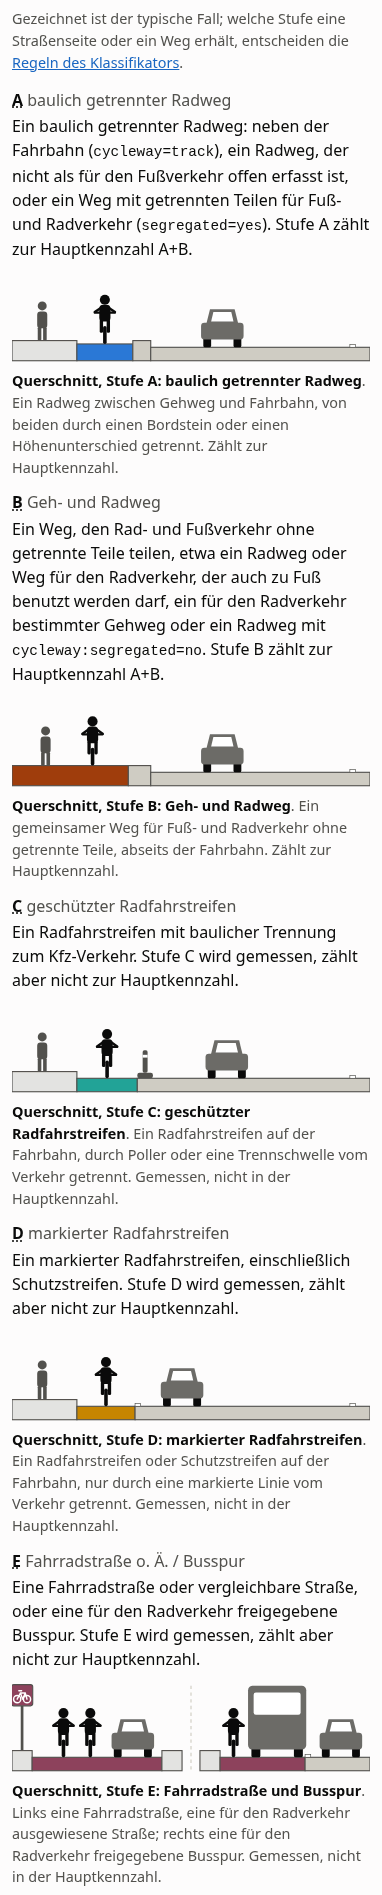
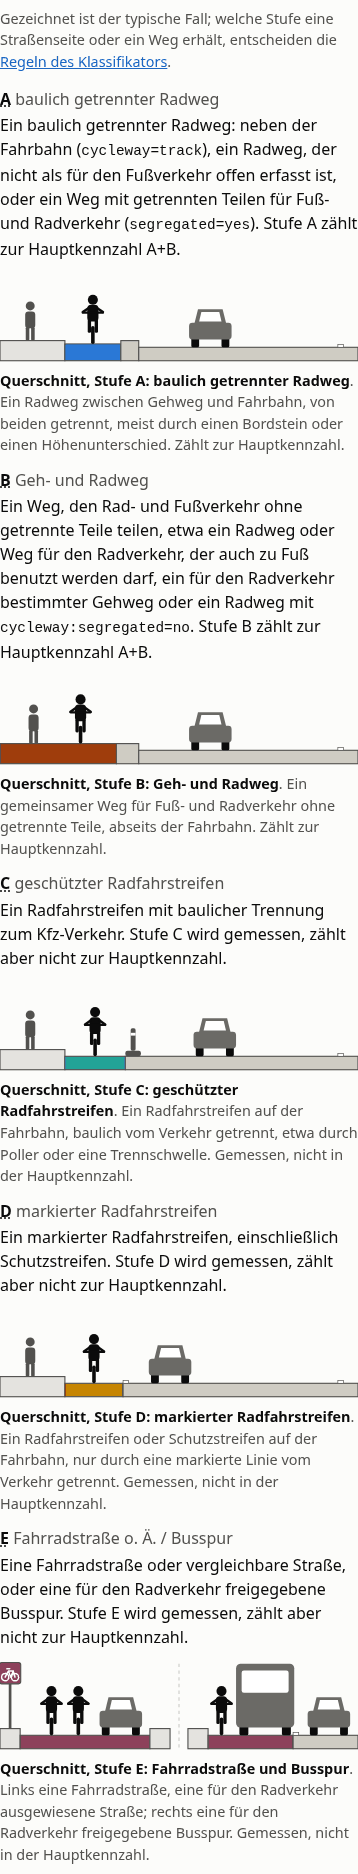
docs(m17): small wordings from the review: llms.txt years, A/C captions, German QECIO class
llms.txt: "(one per year since 2018, plus the current state)", checked against
config/history.yaml. Captions: A "typically" / "meist", C "such as" / "etwa"; glossary
screenshots re-rendered. Methodology (de): "alle Radfahr- und Schutzstreifen", regenerated.
m17-text.md records the decisions and marks the rest approved 2026-11-02.

Assisted-by: Claude:claude-opus-5-5

Changed region(s): [[0.0, 0.0, 1.0, 1.0]]

diff --git a/tests/test_m17_crawl.py b/tests/test_m17_crawl.py
@@ -332,3 +332,14 @@ def test_sitemap_prefixes_hold_without_a_fresh_registration():
     assert xml.startswith('<?xml version="1.0" encoding="UTF-8"?>\n<urlset ')
     assert f'xmlns="{crawl.SITEMAP_NS}"' in xml and f'xmlns:xhtml="{crawl.XHTML_NS}"' in xml
     assert "<xhtml:link " in xml and xml.endswith("</urlset>\n")
+
+
+def test_llms_txt_years_are_the_history_years():
+    """llms.txt says the CSV holds one snapshot per year since the history's first year, plus
+    the current state: every "since <year>" in it is the first year of `config/history.yaml`,
+    the yearly series every city's history runs cover."""
+    first = int(yaml.safe_load((REPO / "config" / "history.yaml").read_text())["years"][:4])
+    text = (REPO / "content" / "llms.md").read_text(encoding="utf-8")
+    assert "(one per year since" in text and "plus the current state)" in text
+    years = [int(y) for y in re.findall(r"\bsince (\d{4})\b", text)]
+    assert len(years) >= 2 and set(years) == {first}, years

diff --git a/tests/test_m17_methodology_qecio_example.py b/tests/test_m17_methodology_qecio_example.py
@@ -76,3 +76,15 @@ def test_no_segregated_path_tier_claim_contradicts_the_classifier(lang):
         assert claimed == actual, (
             f"{lang}: segregated path claimed {claimed}, {version} says {actual}"
         )
+
+
+def test_german_class_names_every_lane_kind_the_english_does():
+    """The English "all cycle lanes" covers painted advisory lanes too (tier D includes them),
+    and German "Radfahrstreifen" alone does not: the German sentence on QECIO's one lane class names
+    Schutzstreifen as well (the user's correction of 2026-11-02)."""
+    en = _paragraph(_text("en"), "en")
+    de = _paragraph(_text("de"), "de")
+    assert "QECIO counts all cycle lanes as one class" in en
+    one_class = re.search(r"zählt QECIO alle ([^.,]*?) als eine Klasse", de)
+    assert one_class, de
+    assert "Schutzstreifen" in one_class.group(1) and "Radfahr" in one_class.group(1)

diff --git a/tests/test_m17_tier_diagrams.py b/tests/test_m17_tier_diagrams.py
@@ -169,6 +169,18 @@ def test_every_tier_has_its_caption_and_name_keys():
         assert i18n.DYNAMIC_FAMILIES[prefix]() >= classifier_tiers(CONFIG)
 
 
+@pytest.mark.parametrize(
+    ("tier", "hedge"),
+    [("A", {"en": "typically by", "de": "meist durch"}), ("C", {"en": "such as", "de": "etwa"})],
+)
+def test_caption_names_separations_as_examples(tier, hedge):
+    """A and C are drawn with one kind of separation each, but the tier has more (the user's
+    call of 2026-11-02): their captions name the drawn kinds as typical or as examples."""
+    for lang in ("en", "de"):
+        caption = i18n.t(lang, f"tier.caption.{tier}")
+        assert re.search(rf"\b{hedge[lang]}\b", caption), (lang, caption)
+
+
 def test_one_viewbox_for_every_diagram():
     module = _module("en", _tier_set())
     boxes = {

diff --git a/docs/review/m17-text.md b/docs/review/m17-text.md
@@ -3,6 +3,11 @@
 Every new reader-facing sentence of M17, en and de, collected for the user's review (plan Task 5
 step 6, spec §4.8 settled 6). Nothing here ships before that review.
 
+**Approved 2026-11-02**, except the texts marked "draft for review" below: the user decided
+the open points on 2026-11-02 and approved everything else in this file. The drafts are new
+text written from those decisions (meta descriptions, the ECF entry, the llms.txt and caption
+wordings, the home lead) and still need the user's go.
+
 ## Open points, in one list
 
 Decide each one, or say "as is". Section references are below.
@@ -10,8 +15,8 @@ Decide each one, or say "as is". Section references are below.
 1. **Long deks:** decided 2026-11-02: the deks stay, and the 14 cities with a dek over 160
    characters get their own meta description, en and de (draft: "Own descriptions" under "Meta
    descriptions and OpenGraph").
-2. **Zenodo licence:** the record says `odbl-1.0`, but the boundary-derived figures carry GISCO's
-   non-commercial condition (see "Dataset bundle"). Keep it, or change the licence field?
+2. **Zenodo licence:** decided 2026-11-02: the record stays `odbl-1.0`, with the GISCO
+   non-commercial condition in the description and the README, as built.
 3. **ECF:** decided 2026-11-02: registered as a term, en and de, with a glossary entry and the
    first-use mark; the upper-case shape test now requires it (draft: "#### ECF" below).
 4. **Tier letters:** decided 2026-11-02: a tier letter is marked on its first use per scope
@@ -21,19 +26,20 @@ Decide each one, or say "as is". Section references are below.
    export); its 24 `<details>` are Cite boxes, whose text is skipped (R13d). The most tier marks
    on any page are 9 (Amsterdam and Utrecht story: the always-visible text plus the phone-only
    blocks, each its own scope). A test now holds one mark per term per scope on every page.
-5. **llms.txt:** "(a year or the current one)" is unverified wording. It links `/data/all.csv`, although
-   robots.txt disallows `/data/` (kept as a download).
-6. **Diagram captions:** A "kerb or change in level" could get "typically"; C names 2 of many
-   separation kinds and could get "such as" (Task 14).
-7. **"Radwegtypen":** too narrow for D and E (Task 16).
+5. **llms.txt:** decided 2026-11-02: "(a year or the current one)" becomes "(one per year since
+   2018, plus the current state)" (draft, see "llms.txt" below); the CSV link stays. "Since
+   2018" is true: `config/history.yaml` has `years: "2018-2026"`, and the export's `all.csv`
+   holds, for each of the 42 city × boundary pairs, the labels 2018 to 2026 plus `current`.
+6. **Diagram captions:** decided 2026-11-02: A gets "typically" ("meist"), C introduces its
+   separation kinds with "such as" ("etwa"); draft in "Tier diagrams", screenshots re-rendered.
+7. **"Radwegtypen":** decided 2026-11-02: stays.
 8. **Home lead:** it repeats the definition box below it. "Here a reader can see…" reads clumsily,
    the home sentence is long, and "apart from the road" is loose for side tracks (Task 15).
-9. **Phone city scroll:** the "over time" section shows the tier mix over time, not the headline chart,
-   which already sits above it (Task 16).
-10. **Methodology correction (German):** "Radfahrstreifen" is narrower than the English "all cycle lanes",
-    because it excludes Schutzstreifen (Task 2c).
-11. **Methodology correction:** the stale tier-B sentence is replaced (live page; see the section
-    below).
+9. **Phone city scroll:** decided 2026-11-02: the "over time" section stays the tier mix over
+   time (Ruling T16a confirmed).
+10. **Methodology correction (German):** decided 2026-11-02: "QECIO zählt alle Radfahr- und
+    Schutzstreifen als eine Klasse" (applied, `docs/methodology.de.md` regenerated).
+11. **Methodology correction:** approved 2026-11-02.
 
 ## Terms registry and glossary (Task 13)
 
@@ -261,7 +267,8 @@ the road with a car.
 
 ### Screenshots
 
-These show the methodology glossary's tier entries from the local app on the real database.
+These show the methodology glossary's tier entries from the local app on the real database
+(re-rendered 2026-11-02 with the A and C captions above; axe 0 violations in all 8).
 
 | | light | dark |
 |---|---|---|
@@ -279,14 +286,19 @@ These show the methodology glossary's tier entries from the local app on the rea
 | `tier.diagram_name.C` | Cross-section, tier C: protected lane | Querschnitt, Stufe C: geschützter Radfahrstreifen |
 | `tier.diagram_name.D` | Cross-section, tier D: painted lane | Querschnitt, Stufe D: markierter Radfahrstreifen |
 | `tier.diagram_name.E` | Cross-section, tier E: cycle street and bus lane | Querschnitt, Stufe E: Fahrradstraße und Busspur |
-| `tier.caption.A` | A cycle track between the footway and the road, set apart from both by a kerb or a change in level. | Ein Radweg zwischen Gehweg und Fahrbahn, von beiden durch einen Bordstein oder einen Höhenunterschied getrennt. |
+| `tier.caption.A` (draft 2026-11-02) | A cycle track between the footway and the road, set apart from both, typically by a kerb or a change in level. | Ein Radweg zwischen Gehweg und Fahrbahn, von beiden getrennt, meist durch einen Bordstein oder einen Höhenunterschied. |
 | `tier.caption.B` | One path for walking and cycling, without separate parts, apart from the road. | Ein gemeinsamer Weg für Fuß- und Radverkehr ohne getrennte Teile, abseits der Fahrbahn. |
-| `tier.caption.C` | A cycle lane on the road, with bollards or a kerb separator between it and the traffic. | Ein Radfahrstreifen auf der Fahrbahn, durch Poller oder eine Trennschwelle vom Verkehr getrennt. |
+| `tier.caption.C` (draft 2026-11-02) | A cycle lane on the road, with a physical separation such as bollards or a kerb separator between it and the traffic. | Ein Radfahrstreifen auf der Fahrbahn, baulich vom Verkehr getrennt, etwa durch Poller oder eine Trennschwelle. |
 | `tier.caption.D` | A cycle lane or advisory lane on the road, with only a painted line between it and the traffic. | Ein Radfahrstreifen oder Schutzstreifen auf der Fahrbahn, nur durch eine markierte Linie vom Verkehr getrennt. |
 | `tier.caption.E` | Left, a cycle street, a street signed for cycling; right, a bus lane open to cyclists. | Links eine Fahrradstraße, eine für den Radverkehr ausgewiesene Straße; rechts eine für den Radverkehr freigegebene Busspur. |
 | `tier.diagram_counts` | Counts in the headline. | Zählt zur Hauptkennzahl. |
 | `tier.diagram_measured` | Measured, not in the headline. | Gemessen, nicht in der Hauptkennzahl. |
 | `tier.diagram_rules` | A typical case is drawn; the [classifier rules] decide which tier each street side or path gets. | Gezeichnet ist der typische Fall; welche Stufe eine Straßenseite oder ein Weg erhält, entscheiden die [Regeln des Klassifikators]. |
+
+Before 2026-11-02 the two drafts read: A "…set apart from both by a kerb or a change in level."
+/ "…von beiden durch einen Bordstein oder einen Höhenunterschied getrennt."; C "A cycle lane on
+the road, with bollards or a kerb separator between it and the traffic." / "Ein Radfahrstreifen
+auf der Fahrbahn, durch Poller oder eine Trennschwelle vom Verkehr getrennt."
 
 The name is the drawing's accessible name and the caption's bold start. The link in
 `tier.diagram_rules` goes to the methodology's "Classification rules" section. The German texts
@@ -758,9 +770,13 @@ Old (de):
 
 New (de):
 
-> So zählt QECIO alle Radfahrstreifen als eine Klasse, während hier ein Radfahrstreifen mit
-> baulicher Trennung zum Kfz-Verkehr (`cycleway:right=lane` mit `cycleway:right:separation=kerb`)
-> als Stufe C gilt und einer ohne sie (nur `cycleway:right=lane`) als Stufe D [ADR 0002].
+> So zählt QECIO alle Radfahr- und Schutzstreifen als eine Klasse, während hier ein
+> Radfahrstreifen mit baulicher Trennung zum Kfz-Verkehr (`cycleway:right=lane` mit
+> `cycleway:right:separation=kerb`) als Stufe C gilt und einer ohne sie (nur
+> `cycleway:right=lane`) als Stufe D [ADR 0002].
+
+(Corrected 2026-11-02 from "alle Radfahrstreifen", which leaves out the Schutzstreifen that the
+English "all cycle lanes" covers.)
 
 Builder's call, for review: the German tier table still reads "B | Geh- und Radweg (gemeinsam
 oder getrennt)". It is left as is: v4 still puts a segregated designated sidewalk
@@ -783,4 +799,7 @@ heute"):
 The texts are in the files themselves, so they are not copied here:
 
 - velometer: `content/llms.md`. `{n_cities}`, `{cities}`, `{dois}` and the URLs are filled at export.
+  Draft 2026-11-02, the CSV line: "[All results as CSV]({origin}data/all.csv): one row per city,
+  boundary and snapshot (one per year since 2018, plus the current state), with the classifier
+  version and OpenStreetMap timestamp." (was "(a year or the current one)").
 - Datalab (German): `sites/datalab/templates/llms.txt`.

diff --git a/docs/methodology.de.md b/docs/methodology.de.md
@@ -21,7 +21,7 @@ Jede Seite erhält eine Stufe oder wird ausgeschlossen:
 | E | Fahrradstraßen und vergleichbare Straßen sowie für den Radverkehr freigegebene Busspuren |
 | `excluded` (ausgeschlossen) | für die Diagnose erfasst, in keiner Kennzahlvariante gezählt |
 
-Die Stufen leiten sich aus der Tag-Logik der ECF-Methode QECIO ab, mit dokumentierten Abweichungen. So zählt QECIO alle Radfahrstreifen als eine Klasse, während hier ein Radfahrstreifen mit baulicher Trennung zum Kfz-Verkehr (`cycleway:right=lane` mit `cycleway:right:separation=kerb`) als Stufe C gilt und einer ohne sie (nur `cycleway:right=lane`) als Stufe D [ADR 0002].
+Die Stufen leiten sich aus der Tag-Logik der ECF-Methode QECIO ab, mit dokumentierten Abweichungen. So zählt QECIO alle Radfahr- und Schutzstreifen als eine Klasse, während hier ein Radfahrstreifen mit baulicher Trennung zum Kfz-Verkehr (`cycleway:right=lane` mit `cycleway:right:separation=kerb`) als Stufe C gilt und einer ohne sie (nur `cycleway:right=lane`) als Stufe D [ADR 0002].
 
 Für jede Seite werden zwei Längen gespeichert. Auf der Basis **`per_side`** zählt jede Straßenseite mit ihrer vollen Länge; eine Straße mit Radwegen auf beiden Seiten zählt also doppelt. Auf der Basis **`qecio_weighted`** zählen Anlagen für nur eine Fahrtrichtung zur Hälfte, wie bei QECIO [ADR 0002]. Längen werden im projizierten Koordinatensystem der jeweiligen Stadt berechnet, nie in Grad.
 

diff --git a/content/llms.md b/content/llms.md
@@ -10,7 +10,7 @@
 
 - [Methodology]({origin}methodology/): how the five tiers, A (separated cycle track) to E (cycle street or bus lane), are derived from OpenStreetMap tags, and what the headline metric (A+B km per 100 km of main roads) means.
 - [Sources]({origin}sources/): the published figures and rankings that velometer sets beside its own OpenStreetMap figures, compared along the dimensions in which they differ.
-- [All results as CSV]({origin}data/all.csv): one row per city, boundary and snapshot (a year or the current one), with the classifier version and OpenStreetMap timestamp.
+- [All results as CSV]({origin}data/all.csv): one row per city, boundary and snapshot (one per year since 2018, plus the current state), with the classifier version and OpenStreetMap timestamp.
 - [Source code]({repo_url}): the pipeline, the classifier rules and the architecture decisions.
 - [Open Data Commons Open Database License 1.0]({odbl_url}): the licence of the data.
 
